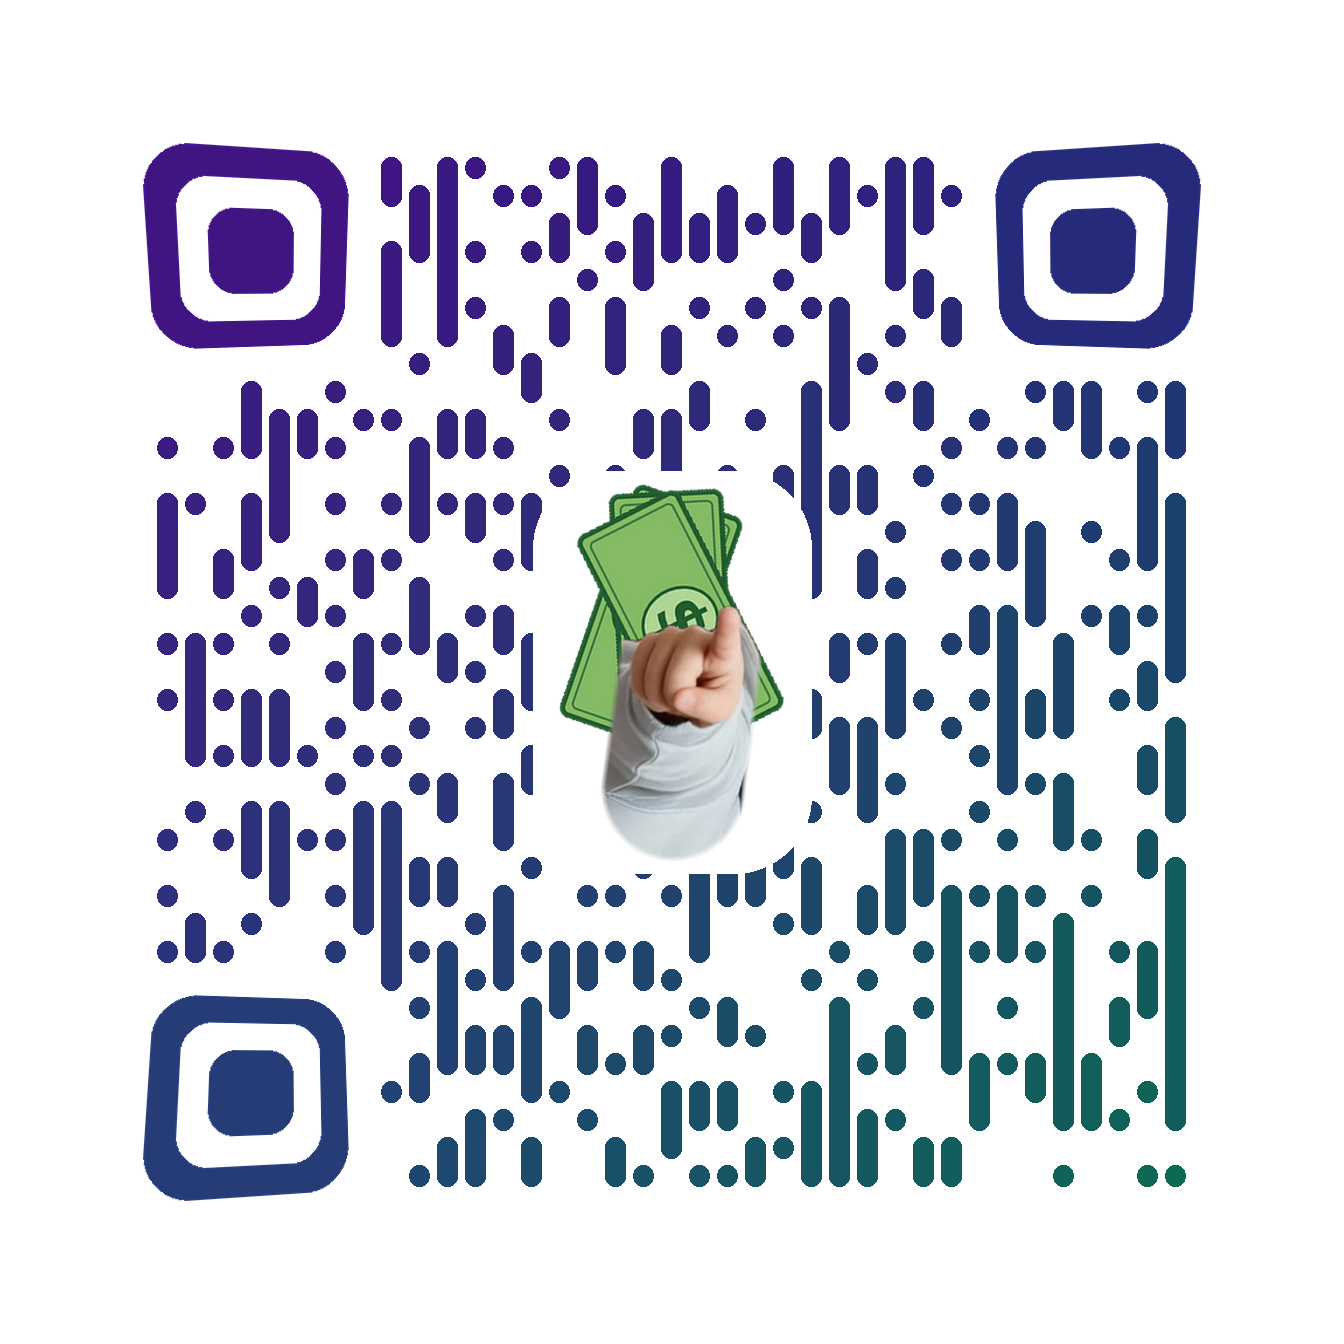
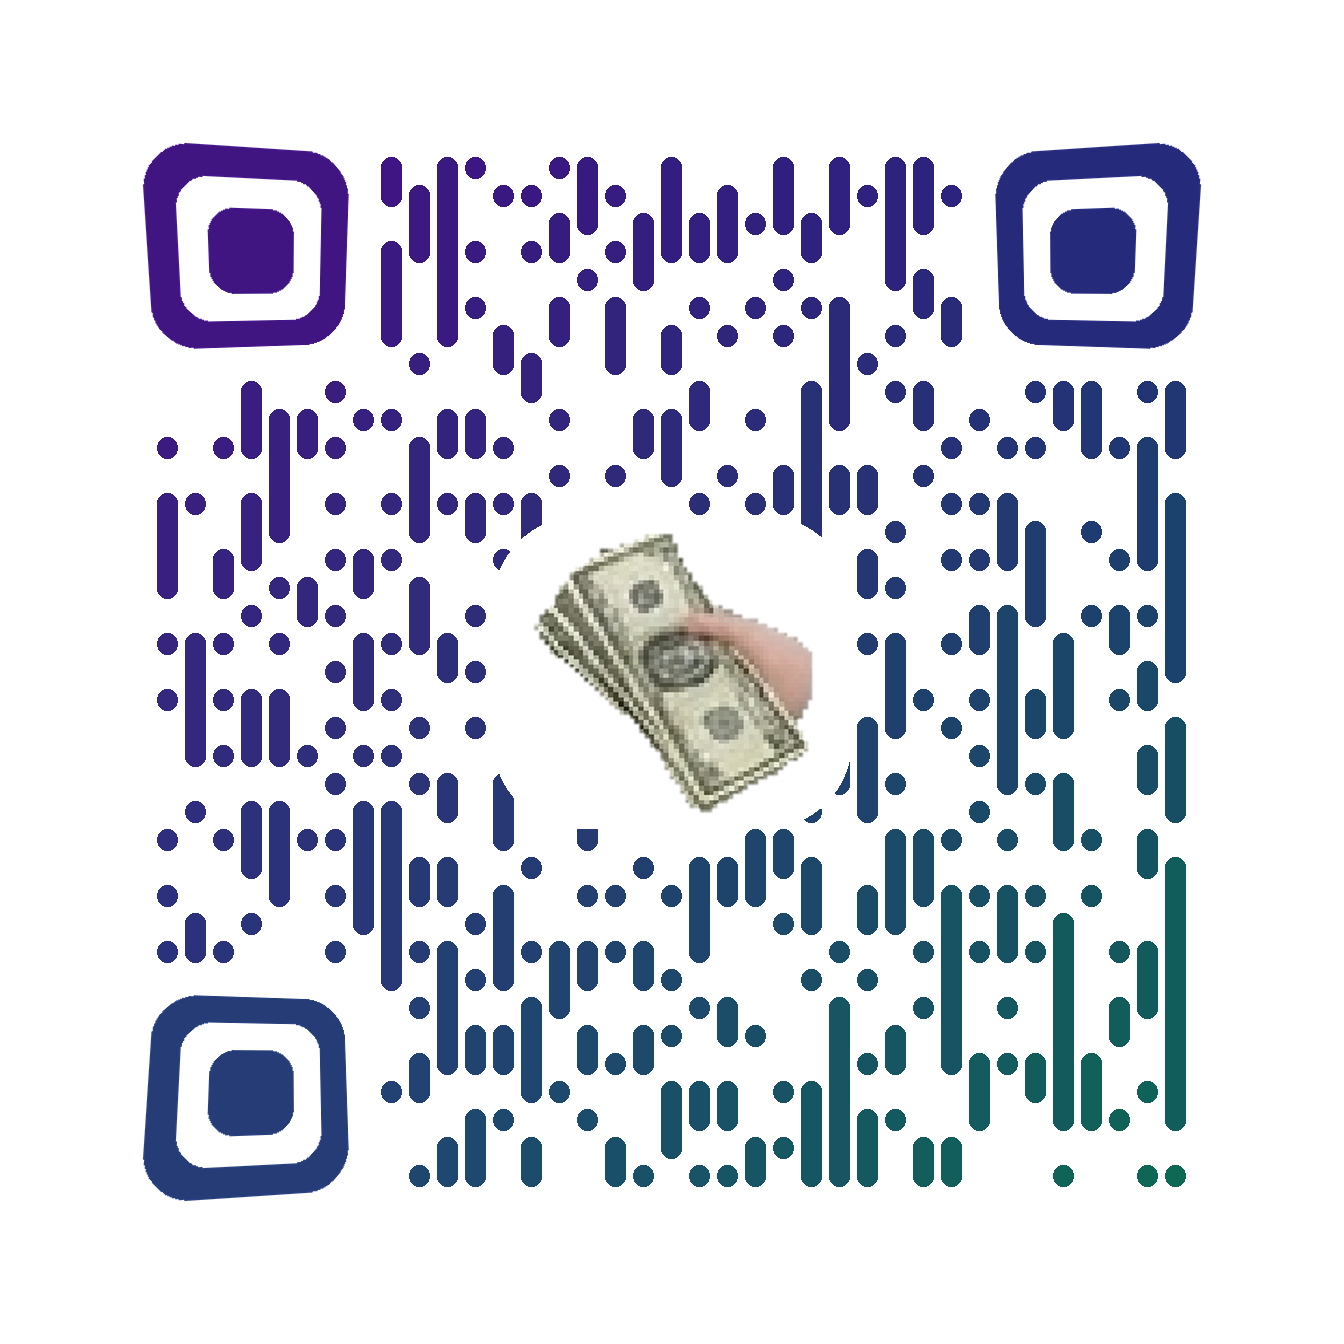
QR center: NBP hand presenting a fan of dollar bills
Swaps the pointing-hand-with-drawn-bills for a Nano Banana Pro render
of a hand holding real cash (source holdcash.png at root; keyed off its
baked checkerboard into images/holdcash-cut.png). Reads unmistakably as
money at a glance. All six styles decode 12/12 under blur, tilt, glare,
and 150px stress tests.

Claude-Session: https://claude.ai/code/session_011P3ggmPFRxPjArGTbVbY72

Changed region(s): [[0.3438, 0.3438, 0.6562, 0.6562]]

diff --git a/generate_qr_options.py b/generate_qr_options.py
@@ -25,11 +25,12 @@ from qrcode.constants import ERROR_CORRECT_H
 from PIL import Image, ImageDraw, ImageFont
 
 ROOT = Path(__file__).resolve().parent
-# Center art: Clarence's hand (cropped from forsite/clarence_point.png)
-# handing over a fan of cartoon bills — a kid spending money smartly is the
-# pitch. Earlier drafts: piggy bank (reads as savings), RoBimmie, full-figure
-# Clarence; robimmie-cutout.png and clarence-bills.png are still around.
-CENTER_SRC = ROOT / "images" / "hand-bills.png"
+# Center art: a hand presenting a fan of US dollar bills, generated in
+# Nano Banana Pro from the page-11 pose and keyed off its checkerboard
+# (source: holdcash.png at repo root). A kid spending money smartly is
+# the pitch — not the savings-brand piggy bank. Spares in repo:
+# hand-bills.png (pointing pose), robimmie-cutout.png.
+CENTER_SRC = ROOT / "images" / "holdcash-cut.png"
 OUT_DIR = ROOT / "images" / "qr-options"
 URL = "https://www.clarencegetsabargain.com"
 
